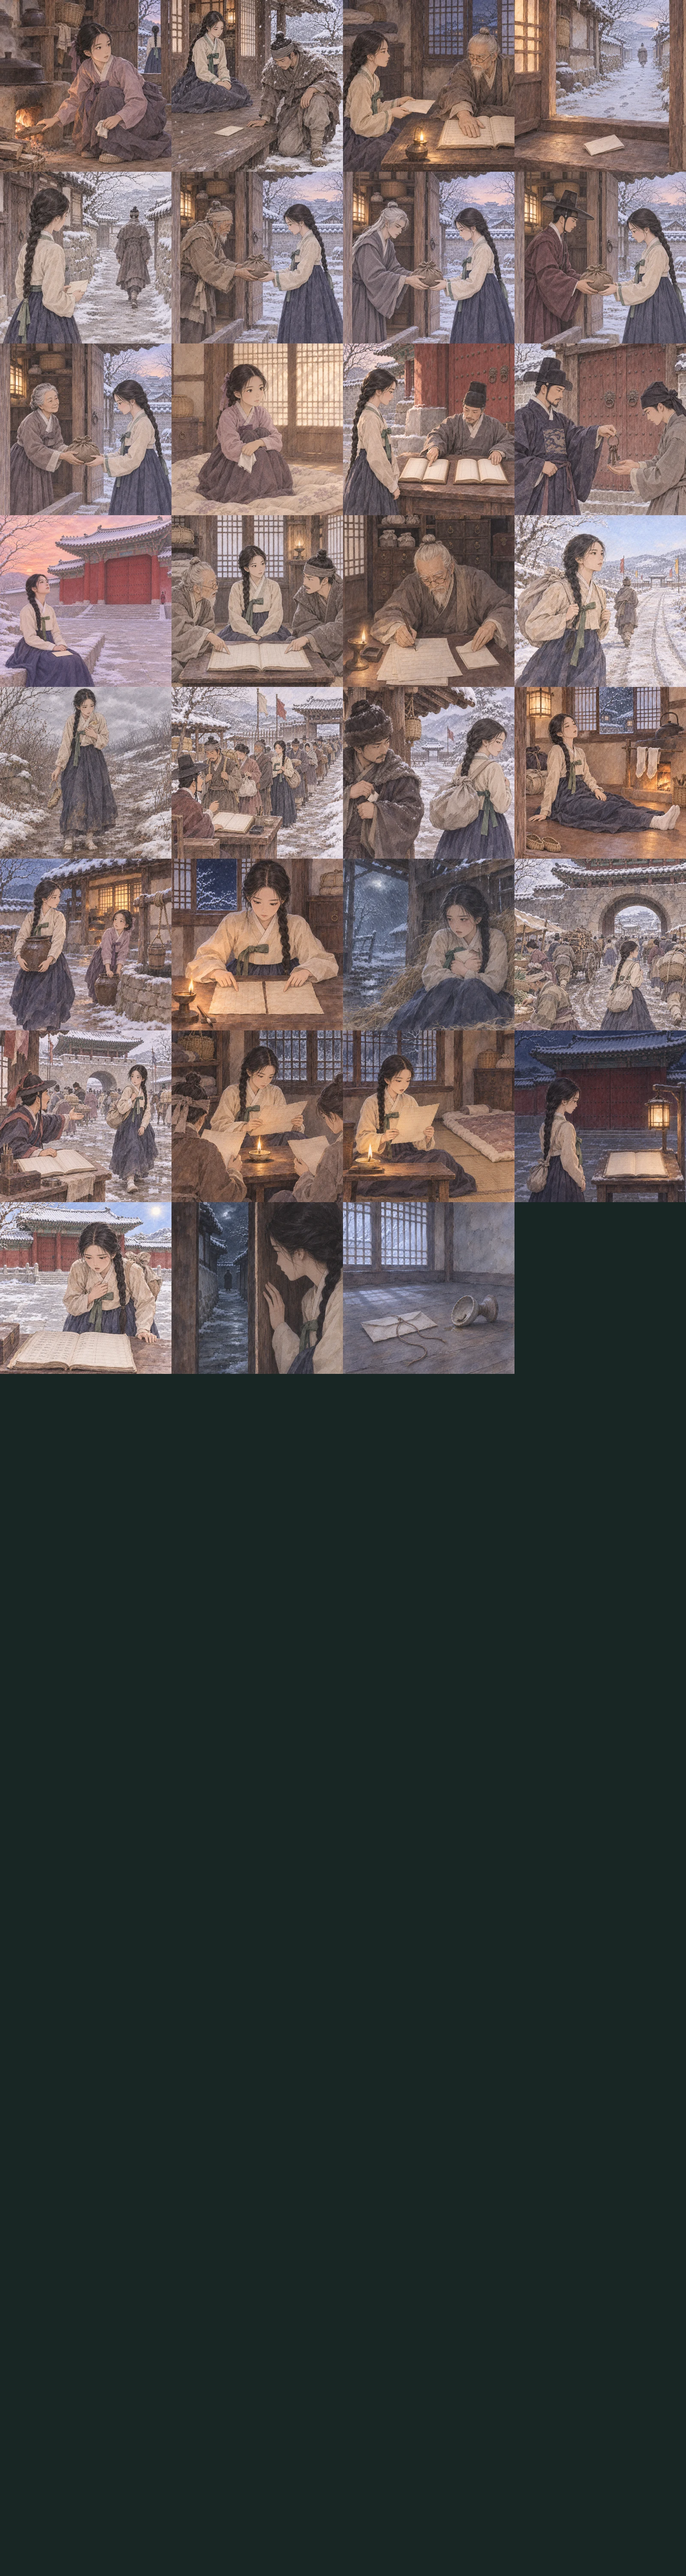
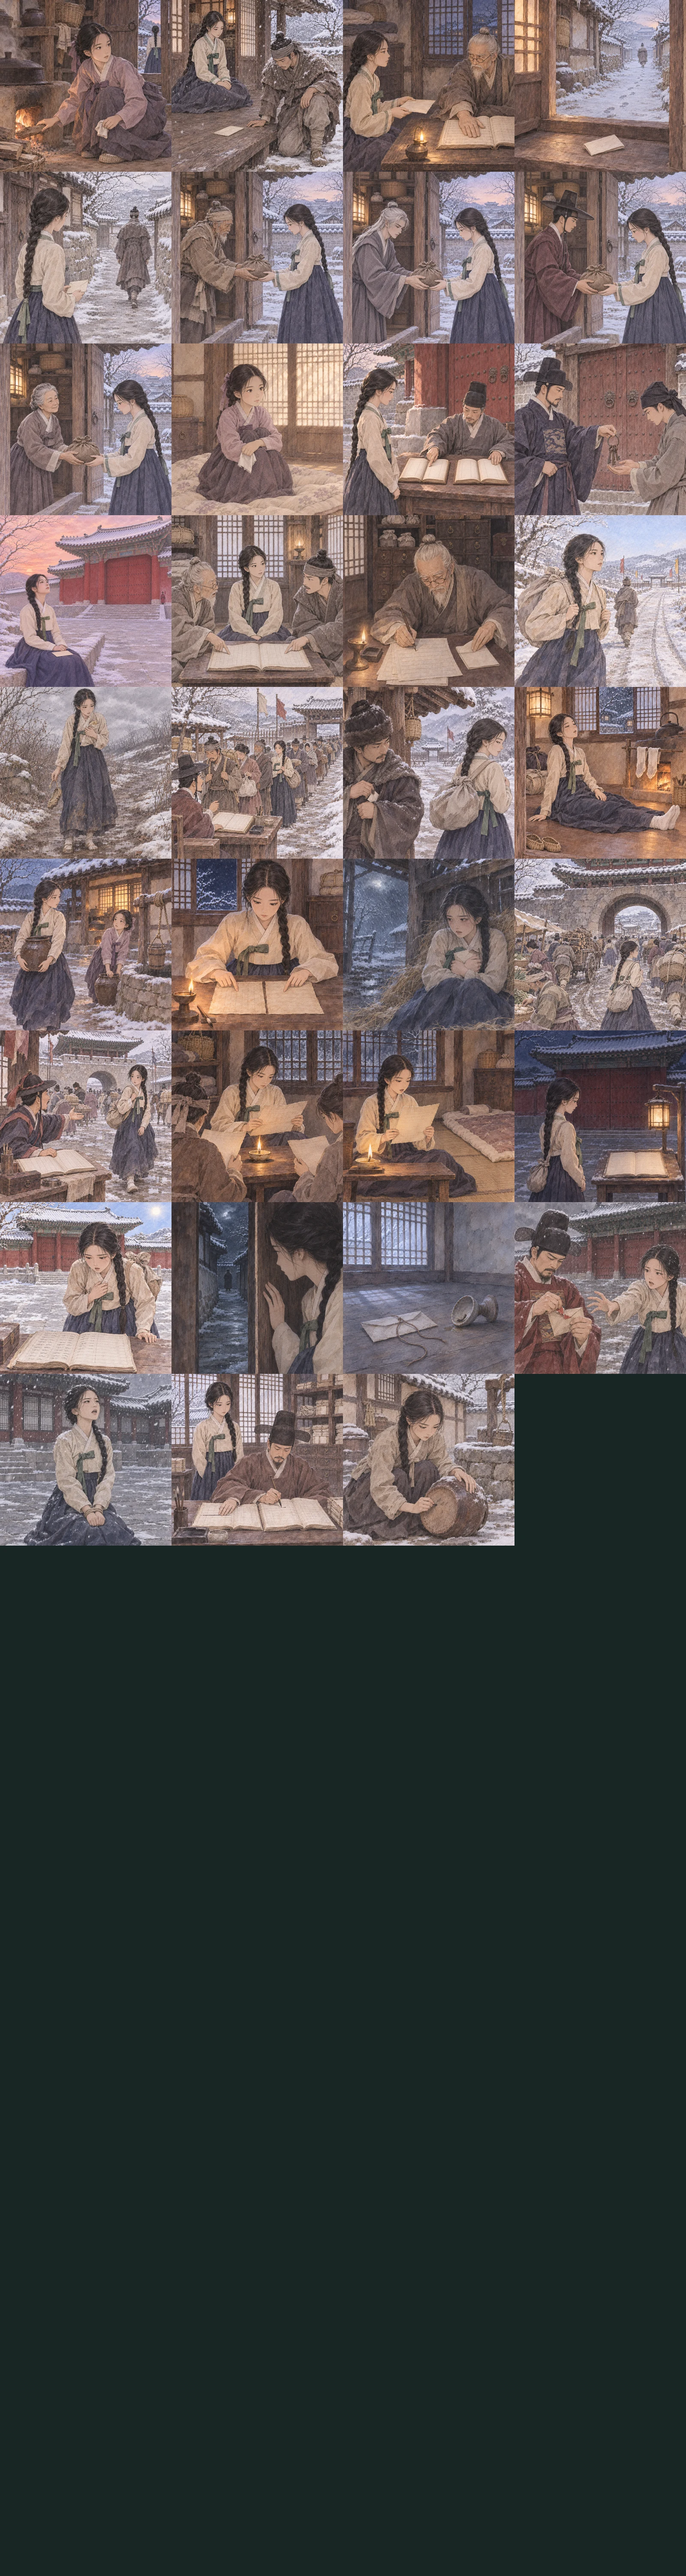
시즌 2 실패 결말 새 컷 S2-29~32 반영 (처형·관노)
Claude-Session: https://claude.ai/code/session_01VZgG2bX25gLRz4FyidLT13

Changed region(s): [[0.0, 0.4675, 1.0, 0.6233]]

diff --git a/site/season-2-new-slots.js b/site/season-2-new-slots.js
@@ -1,3 +1,3 @@
 // tools/build-new-cuts.py가 만든다. season-2-new.webp에 실제로 들어간 새 컷과 칸 번호.
-var NEW_CUT_SLOTS = {'S2-01':0,'S2-02':1,'S2-03':2,'S2-04':3,'S2-05':4,'S2-06a':5,'S2-06b':6,'S2-06c':7,'S2-06d':8,'S2-07':9,'S2-08':10,'S2-09':11,'S2-10':12,'S2-11':13,'S2-12':14,'S2-13':15,'S2-14':16,'S2-15':17,'S2-16':18,'S2-17':19,'S2-18':20,'S2-19':21,'S2-20':22,'S2-21':23,'S2-22':24,'S2-23':25,'S2-24':26,'S2-25':27,'S2-26':28,'S2-27':29,'S2-28':30};
+var NEW_CUT_SLOTS = {'S2-01':0,'S2-02':1,'S2-03':2,'S2-04':3,'S2-05':4,'S2-06a':5,'S2-06b':6,'S2-06c':7,'S2-06d':8,'S2-07':9,'S2-08':10,'S2-09':11,'S2-10':12,'S2-11':13,'S2-12':14,'S2-13':15,'S2-14':16,'S2-15':17,'S2-16':18,'S2-17':19,'S2-18':20,'S2-19':21,'S2-20':22,'S2-21':23,'S2-22':24,'S2-23':25,'S2-24':26,'S2-25':27,'S2-26':28,'S2-27':29,'S2-28':30,'S2-29':31,'S2-30':32,'S2-31':33,'S2-32':34};
 var NEW_CUT_ROWS_2 = 15;
